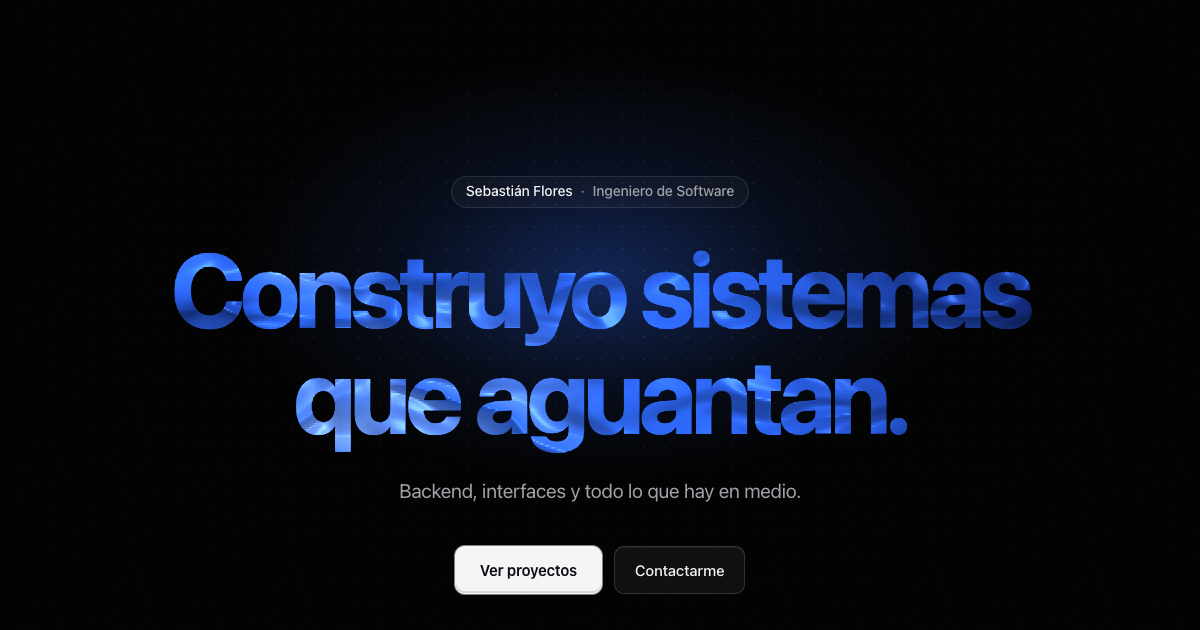
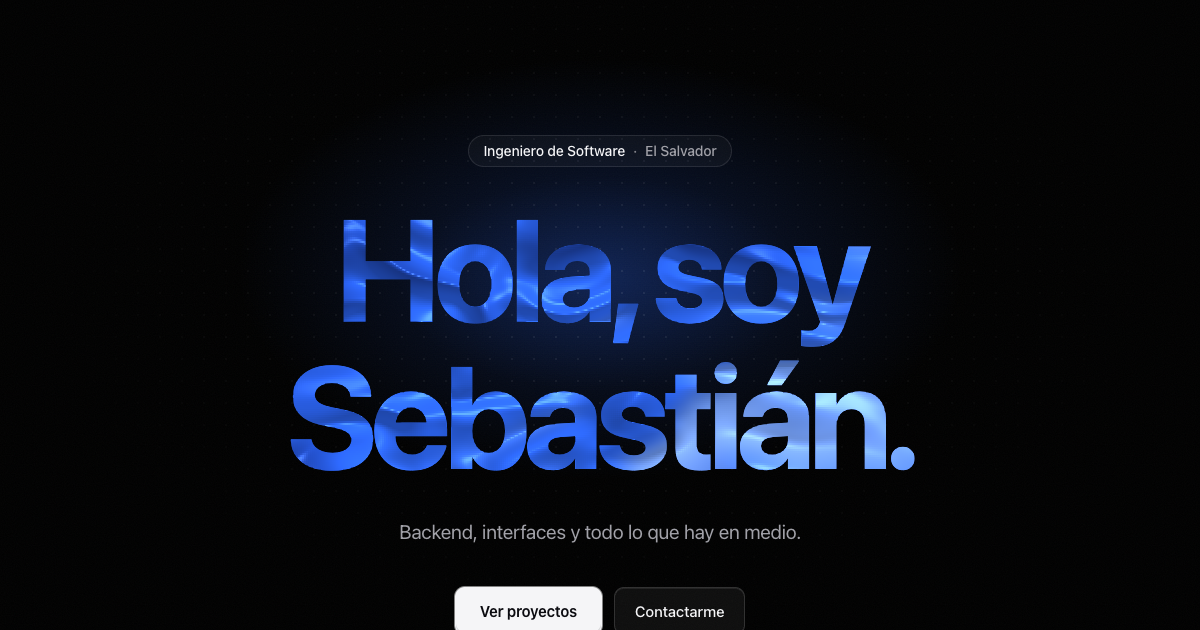
Cambia el titular de la portada por "Hola, soy Sebastián."
"Construyo sistemas que aguantan." sonaba a eslogan. El saludo con el
nombre es más directo; la pastilla de arriba pasa a rol y país. Como la
frase es más corta, el titular crece (52 → 144 px) y en móvil llena el
ancho sin desbordar de 320 px en adelante. La imagen social se
regenera con la portada nueva.

Changed region(s): [[0.1233, 0.2111, 0.8633, 1.0]]

diff --git a/components/portfolio/hero.tsx b/components/portfolio/hero.tsx
@@ -8,11 +8,11 @@ import { LiquidHeadline, PALETTES, type LiquidPalette } from "@/components/fx/li
 /* ══════════════════════════════════════════════════════════════
    PORTADA
 
-   Una sola idea por pantalla: el titular ES la imagen. Nombre y rol
-   arriba, el titular líquido al centro, la bajada y dos acciones.
-   Detrás, un resplandor que toma el color de la paleta activa y una
-   retícula de puntos que se disuelve. Todo el texto es HTML desde el
-   primer render; el WebGL llega encima y no mueve nada.
+   Una sola idea por pantalla: el titular ES la imagen. Rol y país
+   arriba, el saludo con el nombre en líquido al centro, la bajada y
+   dos acciones. Detrás, un resplandor que toma el color de la paleta
+   activa y una retícula de puntos que se disuelve. Todo el texto es
+   HTML desde el primer render; el WebGL llega encima y no mueve nada.
    ══════════════════════════════════════════════════════════════ */
 
 export function Hero() {
@@ -25,11 +25,11 @@ export function Hero() {
       <div aria-hidden className="hero-backdrop" />
       <div className="container-x">
         <p className="hero-kicker t-ui">
-          <span className="text-ink">{identity.name}</span>
+          <span className="text-ink">{b(identity.role)}</span>
           <span aria-hidden className="text-ink-3">
             ·
           </span>
-          {b(identity.role)}
+          {b(identity.location)}
         </p>
         <LiquidHeadline
           id="hero-title"

diff --git a/tests/e2e/a11y.spec.ts b/tests/e2e/a11y.spec.ts
@@ -41,7 +41,7 @@ test.describe("A11Y-01: teclado, movimiento y semántica", () => {
   test("con movimiento reducido el texto final es visible y la escena se dibuja estática", async ({ page }) => {
     await page.emulateMedia({ reducedMotion: "reduce" });
     await gotoHome(page);
-    await expect(page.getByRole("heading", { level: 1 })).toContainText(/aguantan|hold up/);
+    await expect(page.getByRole("heading", { level: 1 })).toContainText(/Sebastián/);
     const box = await waitScene(page);
     const status = await box.getAttribute("data-status");
     if (status === "ready") {

diff --git a/app/globals.css b/app/globals.css
@@ -93,7 +93,7 @@
   --section-gap: clamp(80px, 6vw + 40px, 160px);
 
   /* tipografía fluida (px de referencia: móvil → escritorio) */
-  --t-liquid: clamp(2.625rem, 0.4rem + 9.6vw, 6.5rem); /* 42 → 104 */
+  --t-liquid: clamp(3.25rem, 0.6rem + 16vw, 9rem); /* 52 → 144 */
   --t-display: clamp(2.75rem, 1.4rem + 4.6vw, 5.5rem); /* 44 → 88 */
   --t-h2: clamp(1.875rem, 1.2rem + 2.4vw, 3.25rem); /* 30 → 52 */
   --t-h3: clamp(1.25rem, 1.15rem + 0.4vw, 1.5rem); /* 20 → 24 */

diff --git a/lib/content.ts b/lib/content.ts
@@ -26,8 +26,8 @@ export const identity = {
 export const hero = {
   // El titular va en dos renglones fijos: el corte es parte del diseño.
   headline: [
-    { es: "Construyo sistemas", en: "I build systems" },
-    { es: "que aguantan.", en: "that hold up." },
+    { es: "Hola, soy", en: "Hi, I'm" },
+    { es: "Sebastián.", en: "Sebastián." },
   ] satisfies Bi[],
   lead: {
     es: "Backend, interfaces y todo lo que hay en medio.",

diff --git a/DESIGN.md b/DESIGN.md
@@ -56,7 +56,9 @@ Contrastes medidos (WCAG, `node scripts/contrast.mjs`):
   autoalojada con `next/font`). Mono: JetBrains Mono, sólo en terminal,
   metadatos, chips y ASCII.
 - Titular líquido: 700, tracking −0.045em, interlineado 1.02, tamaño
-  `clamp(42px, 0.4rem + 9.6vw, 104px)`.
+  `clamp(52px, 0.6rem + 16vw, 144px)` ("Hola, soy / Sebastián.": la
+  frase corta permite ir más grande; el cierre lo achica con
+  `--liquid-size`).
 - h2 30→52 (600, −0.04em, lh 1.05); h3 20→24; lead 17→20; cuerpo 16→17
   (lh 1.65); ui 14; meta 12 en mono con tracking +0.04em.
 - Antetítulo de sección: un filete cobalto de 24 px y el nombre en
@@ -82,8 +84,8 @@ Contrastes medidos (WCAG, `node scripts/contrast.mjs`):
 - **Navegación**: una píldora translúcida centrada: marca (siete puntos
   en círculo, uno en cobalto), filete, enlaces, filete, idioma, terminal y
   Contacto en blanco. En móvil ocupa el ancho con menú desplegable.
-- **Portada**: centrada y a pantalla completa. Pastilla con nombre y rol,
-  titular líquido en dos renglones fijos, bajada y dos acciones. Detrás,
+- **Portada**: centrada y a pantalla completa. Pastilla con rol y país,
+  el saludo "Hola, soy / Sebastián." en líquido, bajada y dos acciones. Detrás,
   un resplandor radial que **toma el color de la paleta activa**
   (`@property --glow` animable, 900 ms).
 - **Escenario** (`#explore`): escritorio con índice (regla) y controles a
